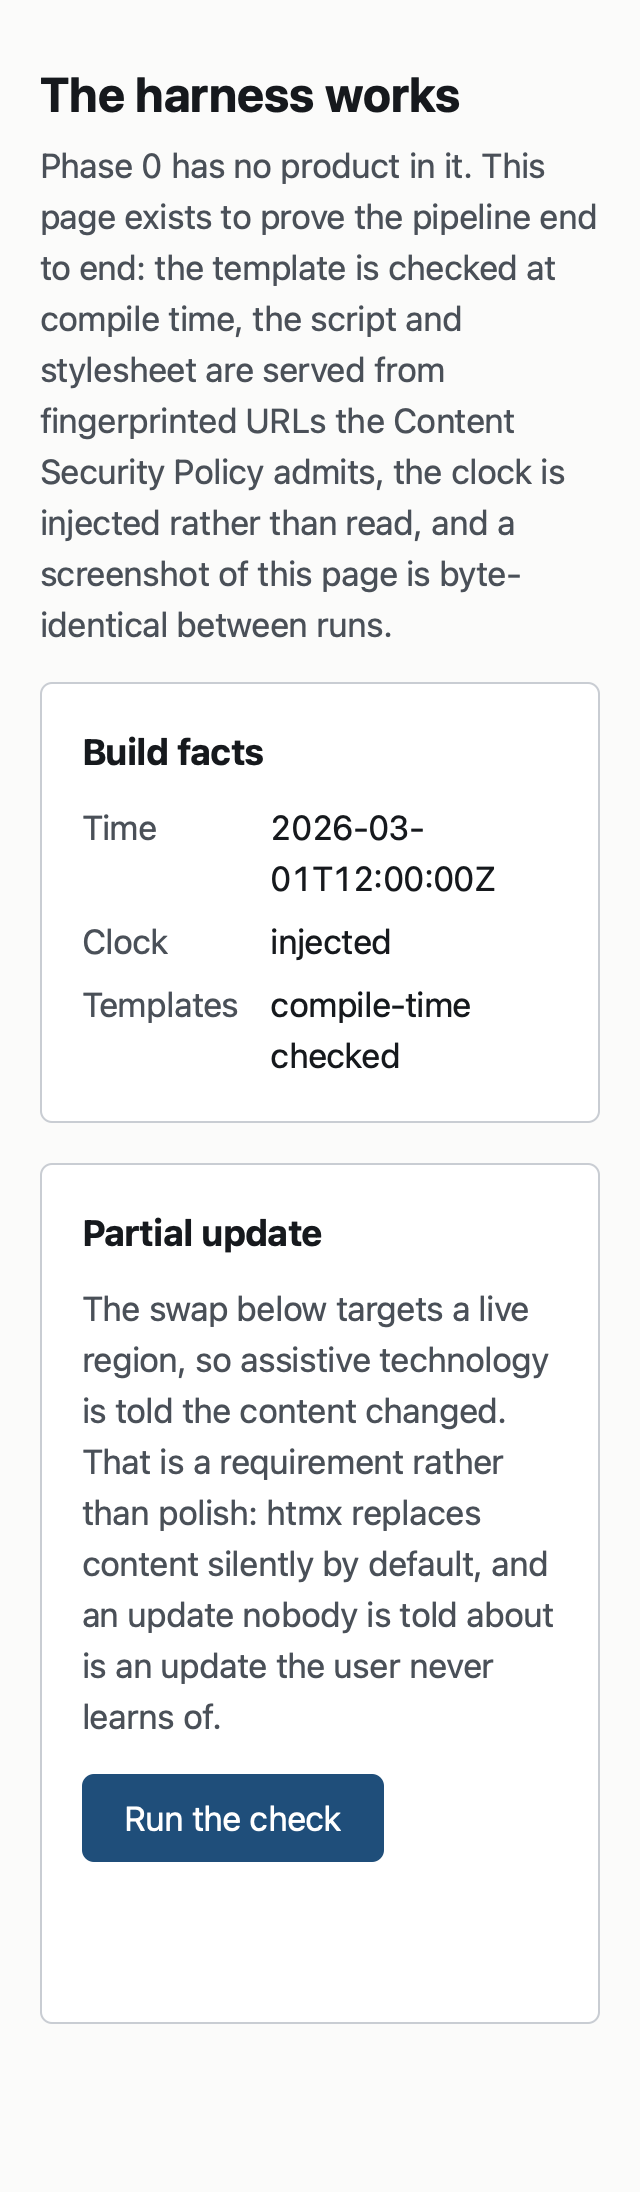
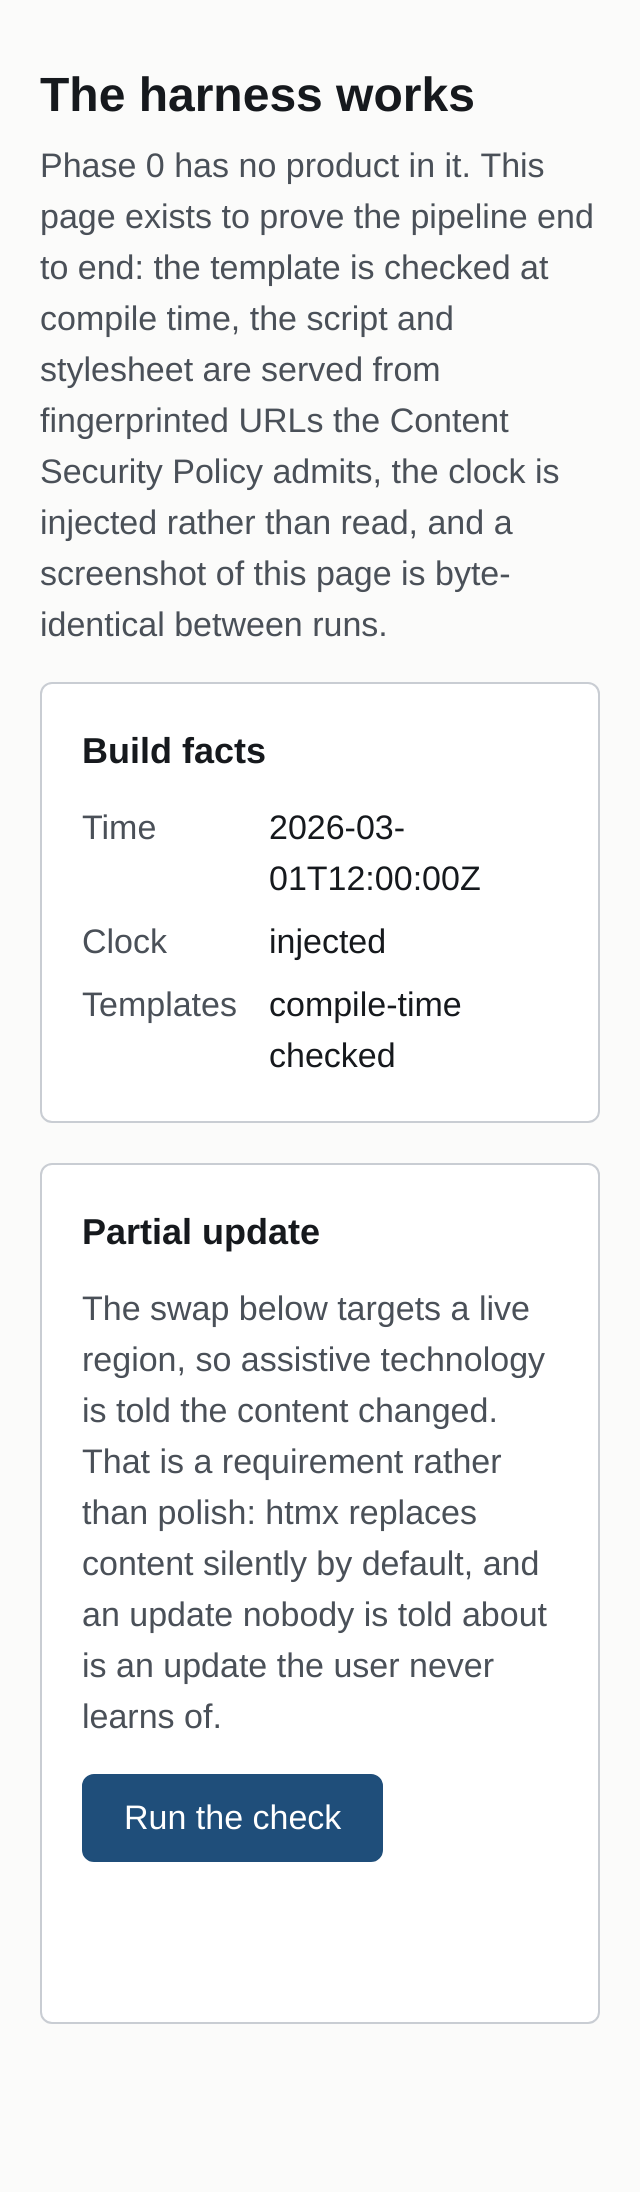
Generate the screenshot gallery in a container (#4)
## Summary

CI failed the "committed gallery is current" check on `main`: the images
the runner renders on Ubuntu differed from the ones committed from
macOS. `screenshots-verify` passed on the runner, so CI was
self-consistent — the mismatch was purely cross-platform, and text
rasterisation was the cause.

`docs/screenshots/README.md` already claimed images were produced inside
the end-to-end container both locally and in CI. They were not.
Documents are law, so the code was wrong.

`make screenshots` now builds Linux binaries in a pinned Rust image and
drives the browsers in the matching Playwright image, at a pinned
architecture, **as the invoking user**.

## The byte-exact check is kept, not removed

An earlier revision of this branch removed it, on the reasoning that
containerising could not close the gap: on Apple Silicon the container
emulates x86_64, and Chromium's rasteriser took a different path under
emulation than on a native runner. WebKit's images matched CI exactly;
Chromium's did not.

Review pointed out what that cost — with the byte check gone,
`frontend-gate` was the only enforcement left, and it fires only for
paths under `app/crates/web/{templates,static,src/view}`. Staleness from
anywhere else (seed data, a template's backing handler, the screenshot
tests themselves) would land silently.

So the cause was attacked instead of the symptom. Skia selects SIMD
paths from runtime CPU detection; `--disable-skia-runtime-opts` pins it
[…]

diff --git a/e2e/playwright.config.ts b/e2e/playwright.config.ts
@@ -3,15 +3,49 @@ import { defineConfig, devices } from "@playwright/test";
 /**
  * The instant every run is frozen at.
  *
- * Determinism in the screenshot pipeline rests on four things, and this is the
+ * Determinism in the screenshot pipeline rests on five things, and this is the
  * first: with a moving clock, anything relative — "due in 14 days", "reported
- * this morning" — drifts between runs and churns every image. The other three
- * are fixed identifiers from the seed generator, a font stack that resolves
- * identically (which is why images are produced in a container), and animation
- * disabled.
+ * this morning" — drifts between runs and churns every image. The other four
+ * are fixed identifiers from the seed generator; the pinned container images
+ * and architecture that images are produced under; Chromium's rasteriser flags
+ * below; and animation disabled.
+ *
+ * docs/screenshots/README.md is the full list, and the order to check them in
+ * when an image churns unexpectedly.
  */
 const APP_CLOCK = "2026-03-01T12:00:00Z";
 const PORT = 8137;
+
+/**
+ * Where the built binaries are.
+ *
+ * Defaults to the host build. `make screenshots` overrides it to point at the
+ * Linux build, because images are produced inside a container so that a
+ * developer's machine and CI rasterise text identically — see the Makefile.
+ */
+const BIN = process.env.APP_BIN_DIR ?? "../app/target/release";
+
+/**
+ * Flags that make Chromium rasterise the same way regardless of the CPU it
+ * believes it is on.
+ *
+ * Skia picks SIMD paths by detecting processor features at runtime, so an
+ * emulated x86_64 machine and a native one can rasterise the same glyph
+ * differently — which is what made a container-generated gallery still differ
+ * from CI's. `--disable-skia-runtime-opts` pins it to the portable path; the
+ * rest remove the other sources of variation that are not the page itself:
+ * subpixel antialiasing and positioning depend on the display, and colour
+ * management depends on the profile.
+ *
+ * WebKit needs none of this — its images already matched CI byte for byte.
+ */
+const CHROMIUM_DETERMINISTIC_ARGS = [
+  "--disable-skia-runtime-opts",
+  "--disable-lcd-text",
+  "--disable-font-subpixel-positioning",
+  "--force-color-profile=srgb",
+  "--disable-gpu",
+];
 
 export default defineConfig({
   testDir: "./tests",
@@ -46,7 +80,11 @@ export default defineConfig({
   projects: [
     {
       name: "chromium-desktop",
-      use: { ...devices["Desktop Chrome"], viewport: { width: 1280, height: 800 } },
+      use: {
+        ...devices["Desktop Chrome"],
+        viewport: { width: 1280, height: 800 },
+        launchOptions: { args: CHROMIUM_DETERMINISTIC_ARGS },
+      },
     },
     {
       // 375px is the width the design is decided at, and iOS Safari is the
@@ -56,7 +94,11 @@ export default defineConfig({
     },
     {
       name: "chromium-mobile",
-      use: { ...devices["Desktop Chrome"], viewport: { width: 375, height: 812 } },
+      use: {
+        ...devices["Desktop Chrome"],
+        viewport: { width: 375, height: 812 },
+        launchOptions: { args: CHROMIUM_DETERMINISTIC_ARGS },
+      },
     },
   ],
 
@@ -66,7 +108,7 @@ export default defineConfig({
     // The data directory is removed first: every run starts from the seed and
     // nothing else, so two runs cannot disagree because of what a previous one
     // left behind.
-    command: `rm -rf ../.e2e-data && ../app/target/release/seed ../.e2e-data && APP_CLOCK=${APP_CLOCK} APP_PORT=${PORT} ../app/target/release/app-web`,
+    command: `rm -rf ../.e2e-data && ${BIN}/seed ../.e2e-data && APP_CLOCK=${APP_CLOCK} APP_PORT=${PORT} ${BIN}/app-web`,
     url: `http://127.0.0.1:${PORT}/healthz`,
     reuseExistingServer: false,
     stdout: "pipe",

diff --git a/AGENTS.md b/AGENTS.md
@@ -55,7 +55,8 @@ fails a build.
 | Every response carries the security headers | applied as a layer, asserted over the real router in `crates/web/tests/security_headers.rs` |
 | Authenticated HTML is never stored by a cache | `private, no-store` is the default; caching is opt-in per route |
 | No floating point in the money path | `clippy.toml` `disallowed-types` |
-| Screenshots are byte-identical between runs | `make screenshots-verify` |
+| Screenshots are byte-identical between runs, **and across machines** | `make screenshots-verify`, plus CI regenerating and diffing the committed gallery |
+| The gallery changes whenever the frontend does | the `frontend-gate` job, from the diff rather than the author's judgement |
 
 Later phases add: every route has an authorization-matrix entry, every read path
 returns one association's rows, no member-only route answers an unauthenticated
@@ -134,6 +135,17 @@ is, anything under `app/crates/web/templates/`, `app/crates/web/static/`, or
 judgement. When nothing frontend changed, the section reads
 `N/A — no frontend change`. `make pr-screenshots` emits the Markdown.
 
+**Anything an agent writes on a pull request says so.** Descriptions, review
+replies, and comments all end with an attribution line naming Claude and the
+account it acted on behalf of. A human reading a review thread is entitled to
+know which side of it was written by a person — the reply may be right either
+way, but who wrote it changes how much independent checking it deserves.
+
+**Answer a review comment, then resolve its thread.** An answered thread left
+open is indistinguishable from an ignored one, and the reviewer has to re-read
+it to find out which. Do not resolve a thread whose comment has not actually
+been addressed in the code.
+
 ## Layout
 
 - `app/` — the Cargo workspace. Rust lives under `app/`; the `Makefile` at the
@@ -194,13 +206,30 @@ judgement. When nothing frontend changed, the section reads
   Content Security Policy, and htmx's injected `<style>` is refused by a policy
   with no `unsafe-inline` — which is the policy working.
 - **`ironstate` is consumed from crates.io**, never as a path dependency, even
-  though it is developed locally. A path dependency would make this repository's
-  builds depend on someone's uncommitted work.
+  though it is developed locally and moves fast. A path dependency would make
+  this repository's builds depend on someone's uncommitted work, and would mean
+  a local experiment upstream could break this build with nothing recorded
+  about why. Check what is actually published before planning around a feature.
 - **Screenshots come from one engine per viewport.** Three browser projects run
   the checks, but two share a 375px width and would race for one filename.
 - **The screenshot pixel tolerance is zero.** A budget hides exactly the small
   regressions the suite exists to catch, and invites tuning the number instead
   of fixing the cause.
+- **`make e2e` deliberately skips the screenshot tests.** `make screenshots`
+  owns the gallery and writes it from inside a container. If the end-to-end run
+  wrote it too, host-rendered images would overwrite container-rendered ones and
+  whichever command ran last would decide what got committed.
+- **`make screenshots` runs in containers, and is therefore slow.** Text
+  rasterises differently on macOS and Linux, so a gallery regenerated on a
+  laptop would never match one regenerated in CI. The Rust and Playwright
+  images and the architecture are all pinned. Do not "speed this up" by running
+  the browsers natively.
+- **Chromium is launched with `--disable-skia-runtime-opts` and friends.** Skia
+  picks SIMD paths by detecting CPU features at runtime, so an emulated x86_64
+  container and a native runner rasterise the same glyph differently. Pinning
+  the portable path is what lets an Apple Silicon machine produce byte-identical
+  images to CI — without it the gallery check fails for a reason no author can
+  act on. WebKit needs none of this; its images already matched.
 
 ## What deliberately doesn't exist
 
@@ -208,14 +237,54 @@ Recorded so it is not re-derived later, each with what would change the answer.
 
 - **No `docs/decisions/` directory.** The design document's §3 is the decision
   log and is amended in place; phase reviews carry everything else.
-- **No `ironstate-journal`.** Its `append` owns its own transaction boundary and
-  cannot enlist in the caller's, but a state change and the work it causes must
+- **No `ironstate-journal` yet — reopened for Phase 3, not settled.** It was
+  declined because `append` owned its own transaction boundary and could not
+  enlist in the caller's, while a state change and the work it causes must
   commit together — a cure period that fires with no notice sent is a legal
-  defect. It is also single-stream, while this system has thousands of live
-  instances. The transition log is a plain table shaped like a future adapter,
-  so adoption would be a swap rather than a rewrite.
-  *Trigger:* upstream gains a caller-supplied transaction and multi-stream
-  journals. Feedback on the gap has been sent upstream.
+  defect, not a bug — and because one journal was one stream, while this system
+  has thousands of live instances. Feedback went upstream and **both gaps are
+  fixed** in `ironstate-journal` 0.2.0: `Journal` has an associated `Tx<'a>`
+  with `append_in`, takes a `StreamId` on every operation, and
+  `RetainableJournal` adds the retention a seven-year records policy needs.
+
+  Three things to know before anyone writes the adapter, all learned from
+  upstream rather than from reading the trait:
+
+  1. **`execute_in` does not evolve the aggregate.** It returns a `#[must_use]
+     Pending` that you commit *after* your transaction resolves. Evolving on
+     append — which is what the original proposal implied — would leave the
+     in-memory aggregate ahead of the durable log whenever the enclosing
+     transaction rolls back, which is the exact failure the seam exists to
+     prevent, reintroduced one layer up.
+  2. **One `execute_in` per transaction.** `head` and `entropy_pos` take no
+     transaction and see only committed state, so a second call against the
+     same open transaction computes a stale rewind anchor. One transition plus
+     our own writes fits; more does not.
+  3. **`journal_contract_test!` cannot yet drive an adapter whose `Tx` is a real
+     transaction** — every entry point is bound `Tx<'a> = ()`. So the adapter
+     shape the seam was added for is currently outside the gate meant to hold
+     it, and such adapters are held instead by a twin over the same storage
+     whose `Tx` is `()`.
+
+  What remains is not a capability question, and upstream says so plainly:
+  every invariant must exist twice, as a test *and* as a database constraint,
+  and a CHECK constraint cannot see inside an event blob. Double-entry balance,
+  the singular-role partial index, and the triggers refusing `UPDATE` on ledger
+  and audit rows all need real columns — so the relational tables are the system
+  of record either way, and Phase 3 decides whether a journal beside them earns
+  its keep or is a second copy of the truth. Concluding it does not is a sound
+  outcome.
+
+  The transition log is a plain table shaped like an adapter for exactly this
+  reason, so adoption stays a swap rather than a rewrite.
+- **The audit hash chain is ours to build, permanently.** Proposal C — opt-in
+  hash-chained append — was declined upstream for a reason worth keeping: a
+  chain is evidence only once its root is externally anchored, and anchoring is
+  application infrastructure, so shipping the chain alone would deliver the
+  half that does not provide the property. If it is ever upstreamed it will be
+  pure functions over bytes the adapter already persists, hashed **per batch
+  rather than per event**, carrying a per-link algorithm tag. Build ours that
+  way, so it could be contributed later without reshaping.
 - **No empty crates for later phases.** A crate arrives when it has something in
   it.
 - **No dark mode.** The design document does not call for one, and the contrast

diff --git a/docs/screenshots/README.md b/docs/screenshots/README.md
@@ -50,7 +50,7 @@ enforces it. A gallery that churns on every run is a gallery everyone learns to
 ignore, and a visual-regression baseline that moves on its own is not a
 baseline.
 
-Four things make it hold. When an image changes unexpectedly, check them in this
+Five things make it hold. When an image changes unexpectedly, check them in this
 order — it is nearly always the first two:
 
 1. **The frozen clock.** The application reads `APP_CLOCK` and installs a fixed
@@ -59,11 +59,39 @@ order — it is nearly always the first two:
 2. **Fixed identifiers.** The seed generator is deterministic: same input, same
    row identifiers, same case numbers, same ordering. It draws no randomness and
    reads no clock.
-3. **Fonts.** A system font stack renders differently across machines, so images
-   are produced inside the end-to-end container both locally and in continuous
-   integration. Phase 2 bundles a webfont when real typography arrives.
+3. **Rendering environment.** `make screenshots` runs inside pinned containers —
+   a Rust image to build Linux binaries and the matching Playwright image to
+   drive the browsers — at a pinned architecture. Text rasterisation differs
+   between macOS and Linux, so generating on a laptop without this would churn
+   every image.
 4. **Animation.** Disabled during capture, and the page honours
    `prefers-reduced-motion`.
+
+5. **Chromium's rasteriser is pinned.** Skia selects SIMD code paths by
+   detecting CPU features at runtime, so an emulated x86_64 container and a
+   native runner rasterise the same glyph differently.
+   `--disable-skia-runtime-opts` forces the portable path, and subpixel
+   antialiasing, subpixel positioning and colour management are disabled for
+   the same reason. WebKit needs none of this — its images matched CI before
+   any of it was added.
+
+### What this guarantees
+
+Regenerating twice in the same place produces identical bytes — checked by
+`make screenshots-verify` — **and** your machine produces the same bytes as CI,
+which is checked by continuous integration regenerating the gallery and diffing
+it against what you committed.
+
+That second property is what makes the check worth having. It catches a stale
+gallery from **any** cause, not only the ones a path list happens to name: a
+change to the seed data, to the handler behind a template, or to the screenshot
+tests themselves all alter the images without touching anything under
+`templates/` or `static/`.
+
+The pixel tolerance is zero, and it stays zero. If images differ, something
+about the page or the pipeline changed, and the answer is to find out what —
+never to widen a tolerance until the check passes, which converts a check into
+a formality.
 
 The pixel tolerance is **zero**. A budget hides exactly the small regressions
 this exists to catch.
